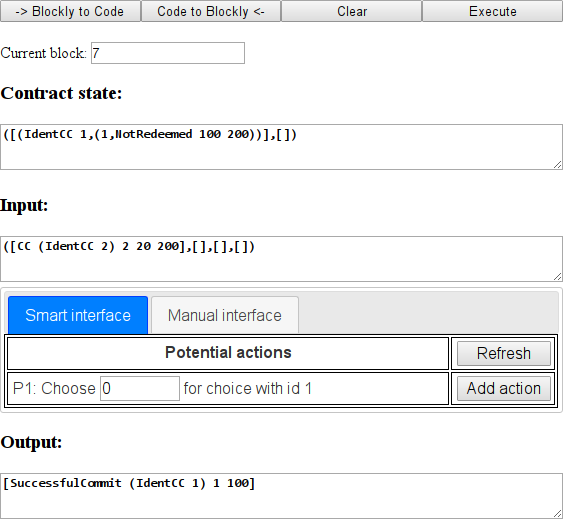
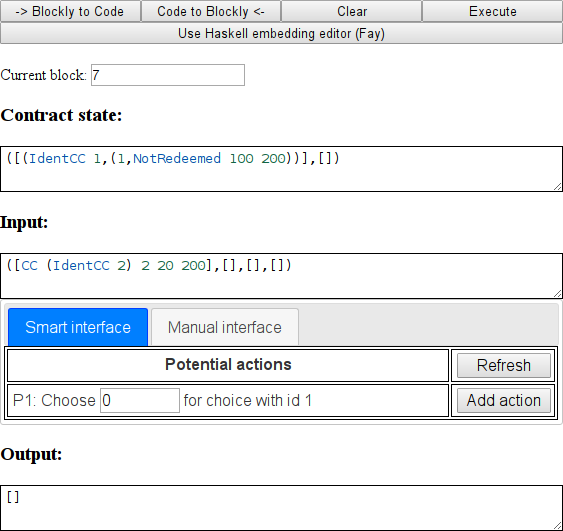
Add embedded Marlowe explanation to paper

Changed region(s): [[0.0, 0.0, 1.0, 0.8015], [0.0, 0.8324, 1.0, 1.0]]

diff --git a/tex/paper.tex b/tex/paper.tex
@@ -631,27 +631,32 @@ In the next section, we look at how to take advantage of Haskell embedding when 
 \section{Marlowe as a DSL embedded in Haskell}
 \label{section:example-escrow}
 
-In this section, we revisit the escrow example that we discussed briefly in the introduction, and show  how we can make Marlowe contracts that are easier to write, read, and 
-understand, by embedding them into Haskell code, taking advantage of the fact that Marlowe contracts are implemented as Haskell 
-terms.
+In this section, we revisit the escrow example that we discussed briefly in the introduction, and show how we can make 
+Marlowe contracts that are easier to write, read, and understand, by embedding them into Haskell code, taking advantage 
+of the fact that Marlowe contracts are implemented as Haskell terms. We used Haskell because it is the language in 
+which Marlowe is implemented, but it would be easy to embed Marlowe in any other languages. It would only be necessary 
+to translate its primitives into a data type in that language. In Meadow, we use Fay embedding, which is a subset of 
+Haskell (see Section~\ref{section:tool}).
 
-The example contract we use through this section implements an escrow contract. Let us imagine that participant \haskellinline{1} 
-is buying some item from participant \haskellinline{2}. On one hand, if participant \haskellinline{1} pays before receiving the item, there 
-is a risk that participant \haskellinline{2} will never give \haskellinline{1} the item. On the other hand, if participant \haskellinline{2} 
-gives participant \haskellinline{1} the item before \haskellinline{1} pays, then there is a risk that \haskellinline{1} will never 
-pay.
+The example contract we use through this section implements an escrow contract. Let us imagine that participant 
+\haskellinline{1} is buying some item from participant \haskellinline{2}. On one hand, if participant \haskellinline{1} 
+pays before receiving the item, there is a risk that participant \haskellinline{2} will never give \haskellinline{1} the 
+item. On the other hand, if participant \haskellinline{2} gives participant \haskellinline{1} the item before 
+\haskellinline{1} pays, then there is a risk that \haskellinline{1} will never pay.
 
-The escrow mechanism allows participant \haskellinline{1} to deposit the money into a contract, in a way that the money will only 
-be released when two out of three participants agree on whether participant \haskellinline{2} has indeed given participant \haskellinline{1} 
-the item. The third participant (participant \haskellinline{3}) is supposed to be a neutral third party that will decide in case of 
-dispute.
+The escrow mechanism allows participant \haskellinline{1} to deposit the money into a contract, in a way that the money 
+will only be released when two out of three participants agree on whether participant \haskellinline{2} has indeed given 
+participant \haskellinline{1} the item. The third participant (participant \haskellinline{3}) is supposed to be a 
+neutral third party that will decide in case of dispute.
 
-This way, if participants \haskellinline{1} and \haskellinline{2} are honest, they will just agree on the result of the transaction 
-and \haskellinline{3} will not need to do anything. If \haskellinline{1} and \haskellinline{2} disagree, participant \haskellinline{3} will be able to choose whether the money must go to \haskellinline{1} or to \haskellinline{2}.
+This way, if participants \haskellinline{1} and \haskellinline{2} are honest, they will just agree on the result of the 
+transaction and \haskellinline{3} will not need to do anything. If \haskellinline{1} and \haskellinline{2} disagree, 
+participant \haskellinline{3} will be able to choose whether the money must go to \haskellinline{1} or to 
+\haskellinline{2}.
 
-In addition to this, in our implementation, the money paid for the item is 450 ADA, it must be committed by 
-participant \haskellinline{1} before block \haskellinline{10}, and it will be refunded to participant \haskellinline{1} if there is no consensus before block 
-\haskellinline{90}.
+In addition to this, in our implementation, the money paid for the item is 450 ADA, it must be committed by participant 
+\haskellinline{1} before block \haskellinline{10}, and it will be refunded to participant \haskellinline{1} if there is 
+no consensus before block \haskellinline{90}.
 
 We start by defining some Haskell functions. We can encapsulate identifiers in functions to make the contract more 
 readable. That way we can generate an identifier for the cash commitment:
@@ -670,11 +675,11 @@ We can also create a sub-contract that allows the money to be redeemed by partic
 redeem_original :: Contract
 redeem_original = RedeemCC iCC1 Null
 \end{haskellcode}
-Each participant has a say on who deserves the money: either participant \haskellinline{1} deserves a refund, which we represent 
-with the number $0$; or participant \haskellinline{2} deserves a payment, which we represent with the number $1$. Because there is 
-only one choice to make per participant, we use the same \haskellinline{IdentChoice} as their participant id. We can 
-define a function that returns an observation that is true if and only if the participant \haskellinline{per} has 
-chosen the number \haskellinline{c} as follows:
+Each participant has a say on who deserves the money: either participant \haskellinline{1} deserves a refund, which we 
+represent with the number $0$; or participant \haskellinline{2} deserves a payment, which we represent with the number 
+$1$. Because there is only one choice to make per participant, we use the same \haskellinline{IdentChoice} as their 
+participant id. We can define a function that returns an observation that is true if and only if the participant 
+\haskellinline{per} has chosen the number \haskellinline{c} as follows:
 \begin{haskellcode}
 chose :: Int -> ConcreteChoice -> Observation
 chose per c = PersonChoseThis (IdentChoice per) per c
@@ -708,8 +713,8 @@ escrow = CommitCash iCC1 1 (ConstMoney 450) 10 100
                     Null
 \end{haskellcode}
 
-The outermost primitive \haskellinline{CommitCash} allows the participant \haskellinline{1} to commit 450 ADA before block 10, 
-with the promise that money will be released on block 100 if they are not claimed before that.
+The outermost primitive \haskellinline{CommitCash} allows the participant \haskellinline{1} to commit 450 ADA before 
+block 10, with the promise that money will be released on block 100 if they are not claimed before that.
 
 The next primitive, \haskellinline{When}, waits for one of three things to happen:
 \begin{enumerate}
@@ -719,11 +724,14 @@ The next primitive, \haskellinline{When}, waits for one of three things to happe
 \end{enumerate}
 
 If the third option happens first, the money is refunded. Otherwise, there is a \haskellinline{Choice} that will 
-immediately refund the money to participant \haskellinline{1} unless two out of three chose option $1$; in the later case, 
-\haskellinline{Pay} will give participant \haskellinline{2} the opportunity to claim the funds available in \haskellinline{iCC1} 
-before block 100. If the funds are not claimed before block 100 they will also be refunded to participant \haskellinline{1}.
+immediately refund the money to participant \haskellinline{1} unless two out of three chose option $1$; in the later 
+case, \haskellinline{Pay} will give participant \haskellinline{2} the opportunity to claim the funds available in 
+\haskellinline{iCC1} before block 100. If the funds are not claimed before block 100 they will also be refunded to 
+participant \haskellinline{1}.
 
-Reflecting on the example we can see that using Haskell definitions has made the contract substantially more comprehensible; it will also support more efficient operation, if we were to replace the repeated  expression \haskellinline{two_chose 1 2 3 1} above by a \haskellinline{where} clause, 
+Reflecting on the example we can see that using Haskell definitions has made the contract substantially more 
+comprehensible; it will also support more efficient operation, if we were to replace the repeated  expression 
+\haskellinline{two_chose 1 2 3 1} above by a \haskellinline{where} clause, 
 \begin{haskellcode}
 escrow = ...
                     (When (OrObs (two_chose 1 2 3 0)
@@ -745,7 +753,7 @@ In the next section, we cover the online contract visualisation and interaction 
 
 One of the objectives of Marlowe is to be accessible to a wider audience
 than a general purpose language would. With this aim, and to aid Marlowe's
-usage by people that does not know is not familiar with its syntax,
+usage by people that does not know or is not familiar with its syntax,
 we have developed Meadow, a web tool that supports the interactive construction,
 edition, and simulation of smart-contracts written in Marlowe. The
 tool is publicly available in the url: \url{https://input-output-hk.github.io/scdsl/}.
@@ -754,15 +762,35 @@ of Meadow in the middle of simulating the execution of the ``incentivised
 saving'' contract described in Section~\ref{section:example-saving}.
 
 Meadow has been mainly written in Haskell and compiled to JavaScript
-by the Haste compiler~\cite{Haste}, it also relies on
-the Blockly library~\cite{Blockly} for providing a visual
-editor for smart contracts written in Marlowe. Blockly's editor allows
-the user to visualise and edit smart-contracts as interlocking blocks
-that can be dragged and dropped like pieces of a jigsaw puzzle (see
-Figure~\ref{fig:detail-of-block}). Meadow also provides functionality
-to generate syntactically correct and formatted code (that is displayed
-in the upper right corner of the application), and to convert the
-code back to its block representation.
+partially by the Haste compiler~\cite{Haste} and partially by GHCJS \cite{GHCJS};
+Meadow also relies on the Blockly library~\cite{Blockly} for providing a visual
+editor for smart contracts written in Marlowe. Embedding support in Meadow
+is provided throught a pruned and bundled version of the Fay compiler \cite{Fay},
+compiled to JavaScript using GHCJS. All text fields that edit and present Meadow and Fay code are
+instances of CodeMirror text editor \cite{CodeMirror}.
+
+Blockly's editor allows the user to visualise and edit
+smart-contracts as interlocking blocks that can be dragged and dropped
+like pieces of a jigsaw puzzle (see Figure~\ref{fig:detail-of-block}).
+Meadow also provides functionality to generate syntactically correct
+and formatted code (that is displayed in the upper right corner of the application),
+and to convert the code back to its block representation.
+
+Additionally, Meadow allows the user to use Meadow's Fay embedding from within the browser (see 
+Figure~\ref{fig:embedded-demo}). Meadow includes a pruned copy of the Fay compiler, bundled with its Prelude module, 
+its foreign interface, and a module with the definitions of the Marlowe primitives and a function to pretty-print 
+Marlowe contracts. This allows the user to compile and execute, inside the browser, Fay
+code that generates and prints a Meadow contract. When the user opens the embedded editor, the current Marlowe contract 
+is embedded into a template of a Fay program that prints it. The user is able to modify this code in the left 
+panel of the editor and use the advanced functionalities provided by Fay like, for example, bindings, 
+list-comprehensions, turing-complete functions definitions, etc.
+
+When the user clicks the execute button, the Fay code is 
+compiled to JavaScript and evaluated; this causes the Marlowe contract generated by the execution of the code to be 
+written to the panel on the right. Generated contracts can then be sent back to the main screen of Meadow, translated 
+to Blockly, and their execution can be simulated. The embedded editor also allows users to save the Fay code to a 
+file in their computers, to load code from a file in their computers, and to temporarily hide the editor while keeping 
+its contents in memory, even while the compilation and execution process is being carried out in the background.
 
 \begin{figure}
 \begin{centering}
@@ -819,7 +847,15 @@ operation whereas the former ``guesses'' the possible intentions
 of the user and usually can input new operations with a single click
 (except for choices, which still may require the user to input a number).
 
-In the next section we re-examine the model and the Marlowe language, looking at possible extensions, alternative design decisions and ways in which we can formally analyse Marlowe contracts.
+\begin{figure}
+\begin{centering}
+\includegraphics[width=1\textwidth]{/home/palas/Escritorio/scdsl/tex/pix/embedded.png}
+\par\end{centering}
+\caption{\label{fig:embedded-demo}Screenshot of Meadow's embedded Fay editor.}
+\end{figure}
+
+In the next section, we re-examine the model and the Marlowe language, looking at possible extensions, alternative 
+design decisions and ways in which we can formally analyse Marlowe contracts.
 
 \section{Reflection}
 \label{section:reflection}
